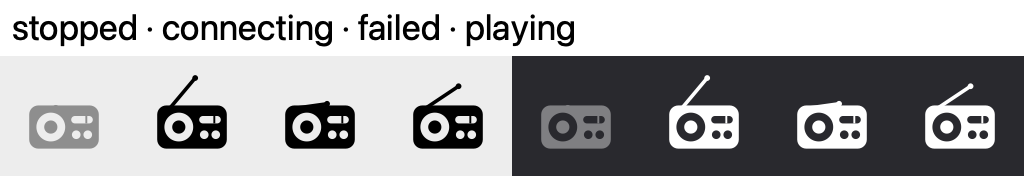
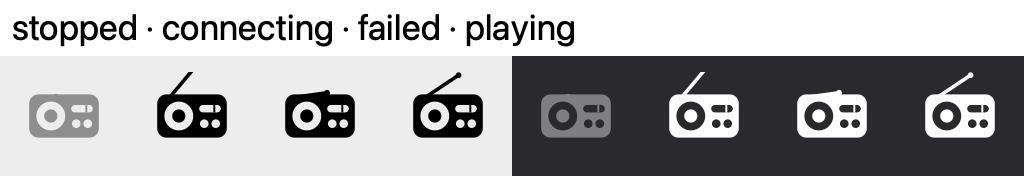
Fix the settings tabs, make the menu monochrome, center the radio
From review of the running app.

The tabs were a TabView, which draws them on the edge of a bordered
box, and the border ran through the control. They are now a picker in
the window's toolbar, with the tabs picker style on macOS 27.

The menu's player is monochrome like the menus around it. Only a
failure keeps a color.

The menu bar icon centered the radio with its antenna, so the body sat
low next to other icons. The body is centered now. The antenna has
less room above, so while connecting it swings down from rest.

Clicking the icon is one row with two short choices in place of two
long radio buttons. The settings window also asks for focus again once
the menu has closed.

Claude-Session: https://claude.ai/code/session_01Ev9xkhDvf3t77rjS2vGz66

diff --git a/Sources/ClaudeFM/SettingsWindow.swift b/Sources/ClaudeFM/SettingsWindow.swift
@@ -39,9 +39,21 @@ final class SettingsWindowController {
         if let tab { navigation.tab = tab }
         let window = self.window ?? makeWindow()
         self.window = window
-        // A menu bar app is not active when its menu is used, so ask for it.
-        NSApp.activate()
         window.makeKeyAndOrderFront(nil)
+        activate()
+        // When this runs from a menu item, the menu is still closing, and macOS hands focus
+        // back to the app that had it. Ask again once the menu is gone.
+        DispatchQueue.main.asyncAfter(deadline: .now() + 0.15) { [weak self] in
+            self?.activate()
+        }
+    }
+
+    /// A menu bar app is not active when its menu is used. The plain activate() is a
+    /// request that macOS turns down here, which leaves the window in front but unable to
+    /// take typing until it is clicked. So insist.
+    private func activate() {
+        NSApp.activate(ignoringOtherApps: true)
+        window?.makeKeyAndOrderFront(nil)
     }
 
     /// Opens the window on the Stations tab with the Add Station sheet down.
@@ -55,7 +67,10 @@ final class SettingsWindowController {
 
     private func makeWindow() -> NSWindow {
         let host = NSHostingController(rootView: SettingsView(model: model, navigation: navigation))
+        // Lets the SwiftUI toolbar, which holds the tabs, become the window's toolbar.
+        host.sceneBridgingOptions = [.toolbars]
         let window = NSWindow(contentViewController: host)
+        window.toolbarStyle = .expanded
         window.title = "Claude FM Settings"
         window.styleMask = [.titled, .closable, .miniaturizable, .resizable]
         window.isReleasedWhenClosed = false
@@ -70,21 +85,43 @@ struct SettingsView: View {
     @Bindable var navigation: SettingsNavigation
 
     var body: some View {
-        TabView(selection: $navigation.tab) {
-            Tab("Stations", systemImage: "radio", value: SettingsNavigation.Tab.stations) {
-                StationsTab(model: model, navigation: navigation)
-            }
-            Tab("General", systemImage: "gearshape", value: SettingsNavigation.Tab.general) {
-                GeneralTab(model: model)
+        Group {
+            switch navigation.tab {
+            case .stations: StationsTab(model: model, navigation: navigation)
+            case .general: GeneralTab(model: model)
             }
         }
-        .padding(.top, 10)
         .frame(width: 480)
         .frame(minHeight: 420)
+        // The tabs sit in the window's toolbar, under the title. TabView draws them on the
+        // edge of a bordered box instead, and the box's border runs through the control.
+        .toolbar {
+            ToolbarItem(placement: .principal) {
+                Picker("Section", selection: $navigation.tab) {
+                    Text("Stations").tag(SettingsNavigation.Tab.stations)
+                    Text("General").tag(SettingsNavigation.Tab.general)
+                }
+                .labelsHidden()
+                .tabsPickerStyle()
+                .fixedSize()
+            }
+        }
         .tint(.claudeViolet)
         .sheet(item: $navigation.sheet) { request in
             AddStationSheet(model: model, request: request)
                 .tint(.claudeViolet)
+        }
+    }
+}
+
+private extension View {
+    /// The picker style made for switching sections, where the system has one.
+    @ViewBuilder
+    func tabsPickerStyle() -> some View {
+        if #available(macOS 27.0, *) {
+            pickerStyle(.tabs)
+        } else {
+            pickerStyle(.segmented)
         }
     }
 }
@@ -104,13 +141,16 @@ struct GeneralTab: View {
             Section("Playback") {
                 Toggle("Stop when other audio plays", isOn: $stopForOtherAudio)
             }
-            Section("Menu bar") {
+            Section {
                 Picker("Clicking the icon", selection: $clickToPlay) {
-                    Text("Click opens the menu, right-click plays").tag(false)
-                    Text("Click plays, right-click opens the menu").tag(true)
+                    Text("Opens the menu").tag(false)
+                    Text("Plays or stops").tag(true)
                 }
-                .pickerStyle(.radioGroup)
-                .labelsHidden()
+            } header: {
+                Text("Menu bar")
+            } footer: {
+                Text("Right-click does the other.")
+                    .frame(maxWidth: .infinity, alignment: .leading)
             }
             Section("System") {
                 Toggle("Launch at login", isOn: Binding(get: { launchAtLogin }, set: setLaunchAtLogin))

diff --git a/Sources/ClaudeFM/RadioIcon.swift b/Sources/ClaudeFM/RadioIcon.swift
@@ -96,9 +96,10 @@ final class RadioIcon {
         case .on:
             return Self.onPose
         case .searching:
-            // Swing the antenna back and forth, like hunting for a station.
+            // Swing the antenna back and forth, like hunting for a station. It swings down
+            // from where it rests, because there is no room above: see `image`.
             let swing = reduceMotion ? 0 : CGFloat(sin(2 * .pi * t / 1.6))
-            return Pose(antenna: .init(angle: 34 + 20 * swing, reach: 1), alpha: 1)
+            return Pose(antenna: .init(angle: 14 + 20 * swing, reach: 1), alpha: 1)
         case .trouble:
             // Sagging and shorter, with a short shake every couple of seconds.
             var angle: CGFloat = 8
@@ -112,9 +113,13 @@ final class RadioIcon {
 
     // MARK: - Drawing
 
-    /// The icon is 18pt wide like the radio, with 2pt of room above and below so a raised
-    /// antenna fits. The radio stays centered.
+    /// The icon is 18pt wide like the radio and 22pt tall. The radio's body is centered in
+    /// it, so the body lines up with the other menu bar icons. The antenna takes the room
+    /// above, and at rest its tip just reaches the top edge.
     static let size = NSSize(width: 18, height: 22)
+
+    /// The middle of the body in the drawing's coordinates. Keep in step with RadioDrawing.
+    private static let bodyMidY: CGFloat = 270 + 360 / 2
 
     static func image(_ pose: Pose) -> NSImage {
         let image = NSImage(size: size, flipped: false) { _ in
@@ -123,9 +128,9 @@ final class RadioIcon {
             context.setAlpha(pose.alpha)
             context.beginTransparencyLayer(auxiliaryInfo: nil)
             let scale = size.width / RadioDrawing.bounds.width
-            context.translateBy(x: 0, y: (size.height - size.width) / 2)
+            context.translateBy(x: 0, y: size.height / 2)
             context.scaleBy(x: scale, y: scale)
-            context.translateBy(x: -RadioDrawing.bounds.minX, y: -RadioDrawing.bounds.minY)
+            context.translateBy(x: -RadioDrawing.bounds.minX, y: -bodyMidY)
             context.setFillColor(.black)
             RadioDrawing.draw(in: context, antenna: pose.antenna)
             context.endTransparencyLayer()

diff --git a/Sources/ClaudeFM/MenuPlayerView.swift b/Sources/ClaudeFM/MenuPlayerView.swift
@@ -49,15 +49,19 @@ struct MenuPlayerView: View {
         .padding(.top, 10)
         .padding(.bottom, 8)
         .frame(width: Self.width)
-        .tint(.claudeViolet)
+        // The menu is monochrome, like the menus around it. Only a failure has a color.
+        .tint(.primary)
     }
 
     @ViewBuilder
     private var status: some View {
         if !hasStation {
-            Button("Add a Station…", action: actions.addStation)
-            .buttonStyle(.link)
+            Button(action: actions.addStation) {
+                Text("Add a Station…").underline()
+            }
+            .buttonStyle(.plain)
             .font(.system(size: 11))
+            .foregroundStyle(.primary)
         } else {
             switch state {
             case .stopped: statusText("Stopped")
@@ -86,7 +90,7 @@ struct MenuPlayerView: View {
         } label: {
             Image(systemName: "arrow.clockwise")
                 .font(.system(size: 17, weight: .medium))
-                .foregroundStyle(failed ? AnyShapeStyle(Color.claudeViolet) : AnyShapeStyle(.secondary))
+                .foregroundStyle(failed ? .primary : .secondary)
         }
         .buttonStyle(.plain)
         .disabled(!hasStation || state == .stopped)
@@ -101,7 +105,7 @@ struct MenuPlayerView: View {
                 switch state {
                 case .playing:
                     Image(systemName: "stop.circle")
-                        .foregroundStyle(Color.claudeViolet)
+                        .foregroundStyle(.primary)
                 case .loading:
                     // Click to cancel.
                     Circle().strokeBorder(.tertiary, lineWidth: 2.5).padding(3)

diff --git a/README.md b/README.md
@@ -17,11 +17,11 @@ The top of the menu is the player. The big button plays and stops. While the str
 
 **Settings…** opens the app's window. Its General tab has Stop When Other Audio Plays, what a click on the icon does, Launch at Login, and updates.
 
-The menu bar icon is the radio from the app icon, and its antenna shows what the player is doing. Stopped, the radio is faded with its antenna pushed down. While connecting or buffering, the antenna swings back and forth like it's hunting for a station. If the stream fails, the antenna sags and shakes every couple of seconds, and the menu says why.
+The menu bar icon is the radio from the app icon, and its antenna shows what the player is doing. Stopped, the radio is faded with its antenna pushed down. While connecting or buffering, the antenna swings up and down like it's hunting for a station. If the stream fails, the antenna sags and shakes every couple of seconds, and the menu says why.
 
 <img src="docs/menubar-icon.gif" width="512" alt="The menu bar icon on light and dark menu bars, animating through connecting, playing, stopped, and stream failed">
 
-To swap the clicks, choose **Click plays, right-click opens the menu** in the General tab.
+To swap the clicks, set **Clicking the icon** to **Plays or stops** in the General tab. Right-click then opens the menu.
 
 ## How it plays
 
